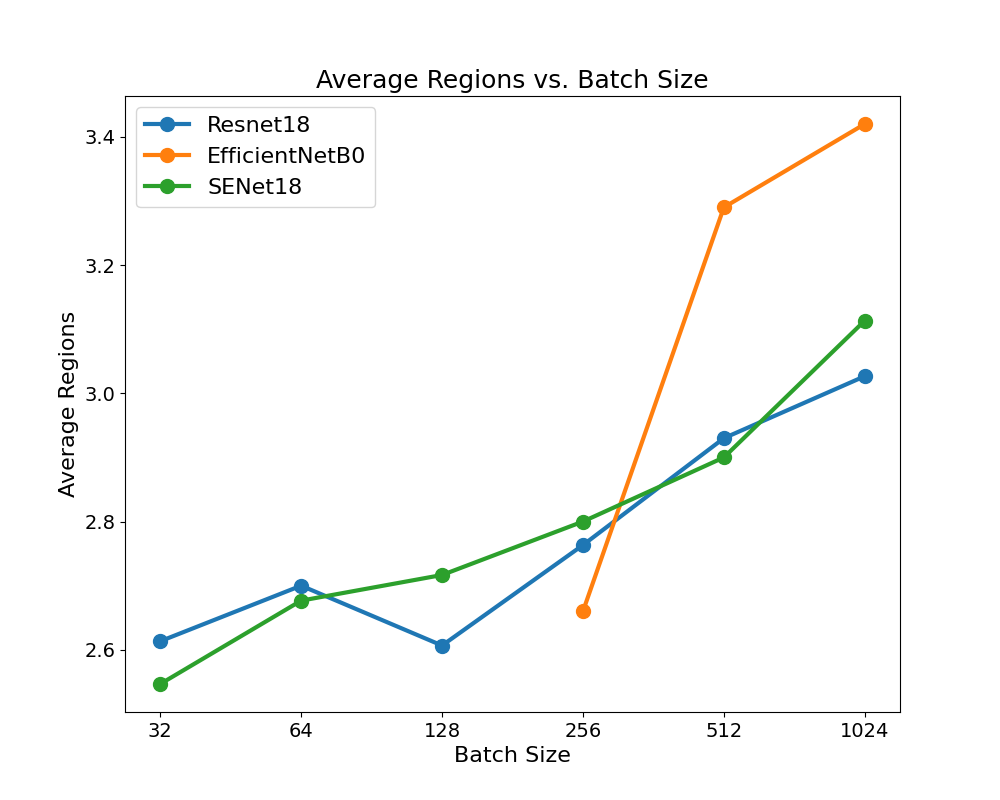
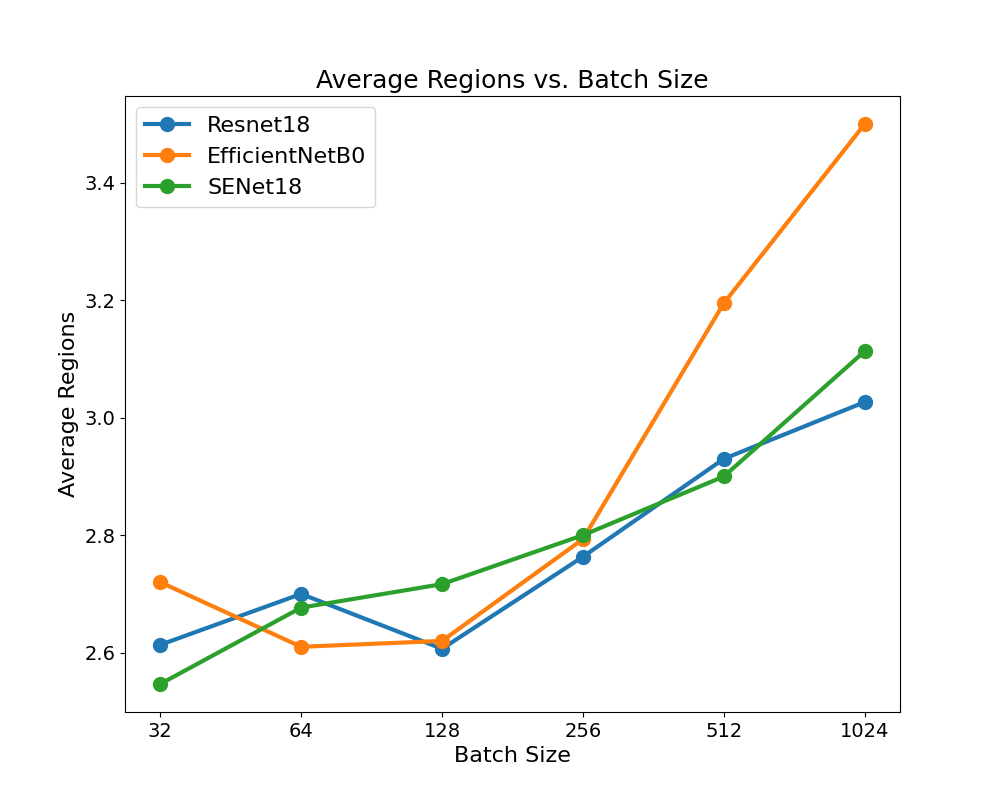
1

diff --git a/runs/training_run.py b/runs/training_run.py
@@ -7,28 +7,35 @@ random.seed(0)
 
 os.chdir(os.path.dirname(os.getcwd()))
 
-nets = ['Resnet18','SENet18','EfficientNetB0']
+nets = ['Resnet18']
 # 'Resnet18','Resnet34', 'VGG19', 'MobileNet', 'SENet18', 'ShuffleNetV2', 'EfficientNetB0', 'RegNetX_200MF', 'SimpleDLA']
 
 seeds = [0,1,2]
 
-data_choose = [4]
-# data_choose = [5,6,0]
+data_choose = [0]
 
-# learning_rate = [0.1,0.01,0.001]
-# batch_size = [1024,512,256]
-# weight_decay = [1e-5,1e-6,1e-7]
+learning_rate = [0.1,0.01,0.001]
+batch_size = [1024,512,256]
+weight_decay = [1e-5,1e-6,1e-7]
 
-# for net in nets:
-#     for data in data_choose:
-#         for seed in seeds:
-#             for lr in learning_rate:
-#                 for batch in batch_size:
-#                     for weight in weight_decay:
-#                         os.system(f"python main.py --dir {'finalgraph/'+ str(net) + '_' + str(lr) + '_' + str(batch) + '_' + str(weight) + '_' + str(data) + '/' + str(seed) } --training_epochs 200 --weight_decay {weight} --lr {lr} --batch_size {batch} --skip_plot 10 --seed {seed} --net {net} --data_choose {data} &")
-#                         time.sleep(600)
+for net in nets:
+    for data in data_choose:
+        for seed in seeds:
+            for lr in learning_rate:
+                for batch in batch_size:
+                    for weight in weight_decay:
+                        os.system(f"python main.py --dir {'finalgraph/'+ str(net) + '_' + str(lr) + '_' + str(batch) + '_' + str(weight) + '_' + str(data) + '/' + str(seed) } --training_epochs 200 --weight_decay {weight} --lr {lr} --batch_size {batch} --skip_plot 10 --seed {seed} --net {net} --data_choose {data} --task mixup --mixup 1&")
+                        time.sleep(600)
 
-#optimizer = ['sgd', 'adam','adagrad', 'rmsprop']
+for net in nets:
+    for data in data_choose:
+        for seed in seeds:
+            for lr in learning_rate:
+                for batch in batch_size:
+                    for weight in weight_decay:
+                        os.system(f"python main.py --dir {'finalgraph/'+ str(net) + '_' + str(lr) + '_' + str(batch) + '_' + str(weight) + '_' + str(data) + '/' + str(seed) } --training_epochs 200 --weight_decay {weight} --lr {lr} --batch_size {batch} --skip_plot 10 --seed {seed} --net {net} --data_choose {data} --task augmentation --random 1&")
+                        time.sleep(600)
+
 # optimizer = ['adam']
 
 # for net in nets:
@@ -38,23 +45,23 @@ data_choose = [4]
 #                 for lr in learning_rate:
 #                     for batch in batch_size:
 #                         for weight in weight_decay:
-#                             os.system(f"python main.py --dir {'finalgraph/'+ str(net) + '_' + str(lr) + '_' + str(batch) + '_' + str(weight) + '_' + str(data) + '/' + str(seed) } --training_epochs 200 --optimizer {opt} --weight_decay {weight} --lr {lr} --batch_size {batch} --skip_plot 10 --seed {seed} --net {net} --data_choose {data} &")
+#                             os.system(f"python main.py --dir {'finalgraph/'+ str(net) + '_' + str(lr) + '_' + str(batch) + '_' + str(weight) + '_' + str(data) + '/' + str(seed) } --training_epochs 200 --optimizer {opt} --weight_decay {weight} --lr {lr} --batch_size {batch} --skip_plot 10 --seed {seed} --net {net} --data_choose {data} --task {optimizer}&")
 #                             time.sleep(1000)
 
 
-learning_rate = [0.5,0.1,0.05,0.01,0.005,0.001]
+# learning_rate = [0.1,0.05,0.01,0.005,0.001]
 
-for net in nets:
-    for data in data_choose:
-        for seed in seeds:
-            for lr in learning_rate:
-                os.system(f"python main.py --dir {'results_one/'+ str(net) + '_' + str(lr) + '_' + str(data) + '/' + str(seed) } --training_epochs 200 --lr {lr} --skip_plot 10 --seed {seed} --net {net} --data_choose {data} &")
-                time.sleep(500)
+# for net in nets:
+#     for data in data_choose:
+#         for seed in seeds:
+#             for lr in learning_rate:
+#                 os.system(f"python main.py --dir {'results_one/'+ str(net) + '_' + str(lr) + '_' + str(data) + '/' + str(seed) } --training_epochs 200 --lr {lr} --skip_plot 10 --seed {seed} --net {net} --data_choose {data} &")
+#                 time.sleep(500)
 
-batch_size = [32,64,128,256,512,1024]
-for net in nets:
-    for data in data_choose:
-        for seed in seeds:
-            for batch in batch_size:
-                os.system(f"python main.py --dir {'results_one/'+ str(net) + '_' + str(batch) + '_' + str(data) + '/' + str(seed) } --training_epochs 200 --batch_size {batch} --skip_plot 10 --seed {seed} --net {net} --data_choose {data} &")
-                time.sleep(500)
+# batch_size = [32,64,128,256,512,1024]
+# for net in nets:
+#     for data in data_choose:
+#         for seed in seeds:
+#             for batch in batch_size:
+#                 os.system(f"python main.py --dir {'results_one/'+ str(net) + '_' + str(batch) + '_' + str(data) + '/' + str(seed) } --training_epochs 200 --batch_size {batch} --skip_plot 10 --seed {seed} --net {net} --data_choose {data} &")
+#                 time.sleep(500)

diff --git a/main.py b/main.py
@@ -6,7 +6,7 @@ import numpy as np
 import torch.nn as nn
 from net import get_net
 from load_dataset import load_train_test
-from train_and_test import small_plot, calculate_region_entropy
+from train_and_test import calculate_region_entropy
 import pynvml
 
 def found_device():
@@ -45,7 +45,7 @@ if __name__ == "__main__":
     parser.add_argument('--training_epochs', default=200, type=int, help='training epochs')
     parser.add_argument('--mixup', default=0, type=int, help='whether use mixup')
     parser.add_argument('--weight_decay', default=5e-4, type=float, help='weight decay')
-    parser.add_argument('--net', default='resnet18', type=str, help='network')
+    parser.add_argument('--net', default='Resnet18', type=str, help='network')
     parser.add_argument('--scope_l', default=0, type=int, help='plane_scope_l')
     parser.add_argument('--scope_r', default=1, type=int, help='plane_scope_r')
     parser.add_argument('--skip_plot',default=1,type=int, help= 'how to plot')
@@ -61,6 +61,7 @@ if __name__ == "__main__":
     parser.add_argument('--batch_size', default=256,type=int,help='batch size')
     parser.add_argument('--random', default=0,type=int,help='whether_random_crop')
     parser.add_argument('--data_choose', default=0,type=int,help='how to choose data')
+    parser.add_argument('--task', default='correlation',type=str,help='task')
     args = parser.parse_args()
     set_seed(args.seed)
     device = 'cuda:' + found_device() if torch.cuda.is_available() else 'cpu'
@@ -69,6 +70,8 @@ if __name__ == "__main__":
     net, criterion, optimizer, scheduler = get_net(args, device)
     if not os.path.exists(args.dir):
         os.makedirs(args.dir)
+    if not os.path.exists(args.task):
+        os.makedirs(args.task)
     if args.resume:
         # Load checkpoint.
         print('==> Resuming from checkpoint..')
@@ -76,5 +79,4 @@ if __name__ == "__main__":
         net.load_state_dict(checkpoint['net'])
         start_epoch = checkpoint['epoch'] + 1
     
-    #train_test(args, criterion, optimizer, scheduler, device, net, start_epoch, trainloader, testloader)
     calculate_region_entropy(args, criterion, optimizer, scheduler, device, net, start_epoch, trainloader, testloader, trainset_no_random, testset)

diff --git a/plot.py b/plot.py
@@ -128,10 +128,10 @@ def plot_loss_accuracy(args, start_epoch, num_epochs, average_region_list, avera
     
     plt.figure()
     plt.plot(range(start_epoch, start_epoch + num_epochs + 1, args.skip_plot), average_region_list, label='Average Regions')
-    plt.fill_between(range(start_epoch, start_epoch + num_epochs + 1, args.skip_plot), 
-                    np.array(average_region_list) - np.array(variance_region_list), 
-                    np.array(average_region_list) + np.array(variance_region_list), 
-                    alpha=0.5, label='Variance')
+    # plt.fill_between(range(start_epoch, start_epoch + num_epochs + 1, args.skip_plot), 
+    #                 np.array(average_region_list) - np.array(variance_region_list), 
+    #                 np.array(average_region_list) + np.array(variance_region_list), 
+    #                 alpha=0.5, label='Variance')
     plt.title('Average number of regions over Epochs', fontsize=18)
     plt.tick_params(axis='both', which='major', labelsize=14)
     plt.xlabel('Epochs', fontsize=18)

diff --git a/train_and_test.py b/train_and_test.py
@@ -139,7 +139,7 @@ def calculate_region_entropy(args, criterion, optimizer, scheduler, device, net,
         test(device, net, criterion, testloader, test_loss_list, test_accuracy_list)
            
     plot_loss_accuracy(args, start_epoch, num_epochs, average_region_list, average_entropy_list, variance_region_list, variance_entropy_list, train_loss_list, test_loss_list, train_accuracy_list, test_accuracy_list)
-    f = open('final/' + str(args.net) + '.txt', 'a')
+    f = open(str(args.task) + '/' + str(args.net) + '.txt', 'a')
     f.write(' '.join([str(elem) for elem in average_region_list]) + ' ' + str(train_accuracy_list[-1]) + ' ' + str(test_accuracy_list[-1]) + ' ' + str(args.weight_decay) + ' ' + str(args.lr) + ' ' + str(args.batch_size) + '\n')
     # g = open('final/entropy' + str(args.device) + '.txt', 'a')
     # g.write(' '.join([str(elem) for elem in average_entropy_list]) + ' ' + str(test_accuracy_list[-1]) + ' ' + str(args.weight_decay) + ' ' + str(args.lr) + ' ' + str(args.batch_size) + ' ' + str(args.net) + '\n')
